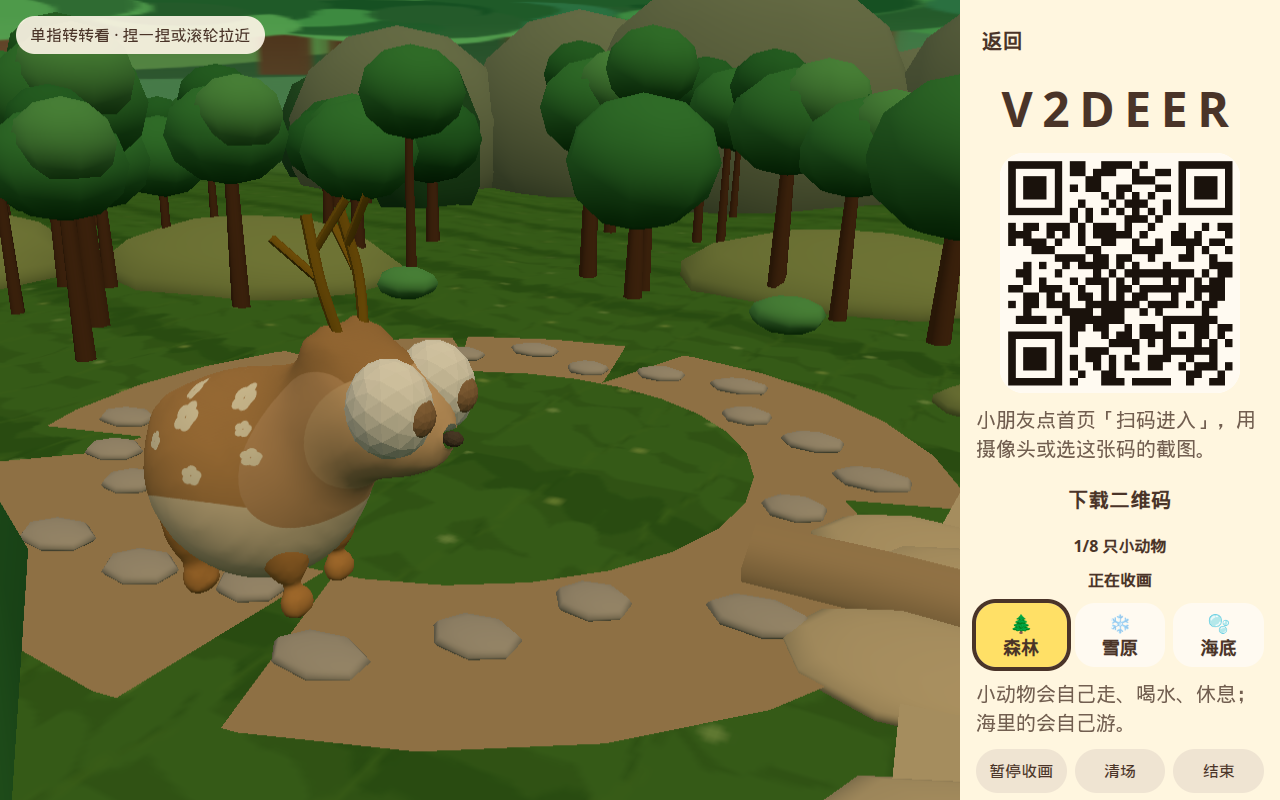
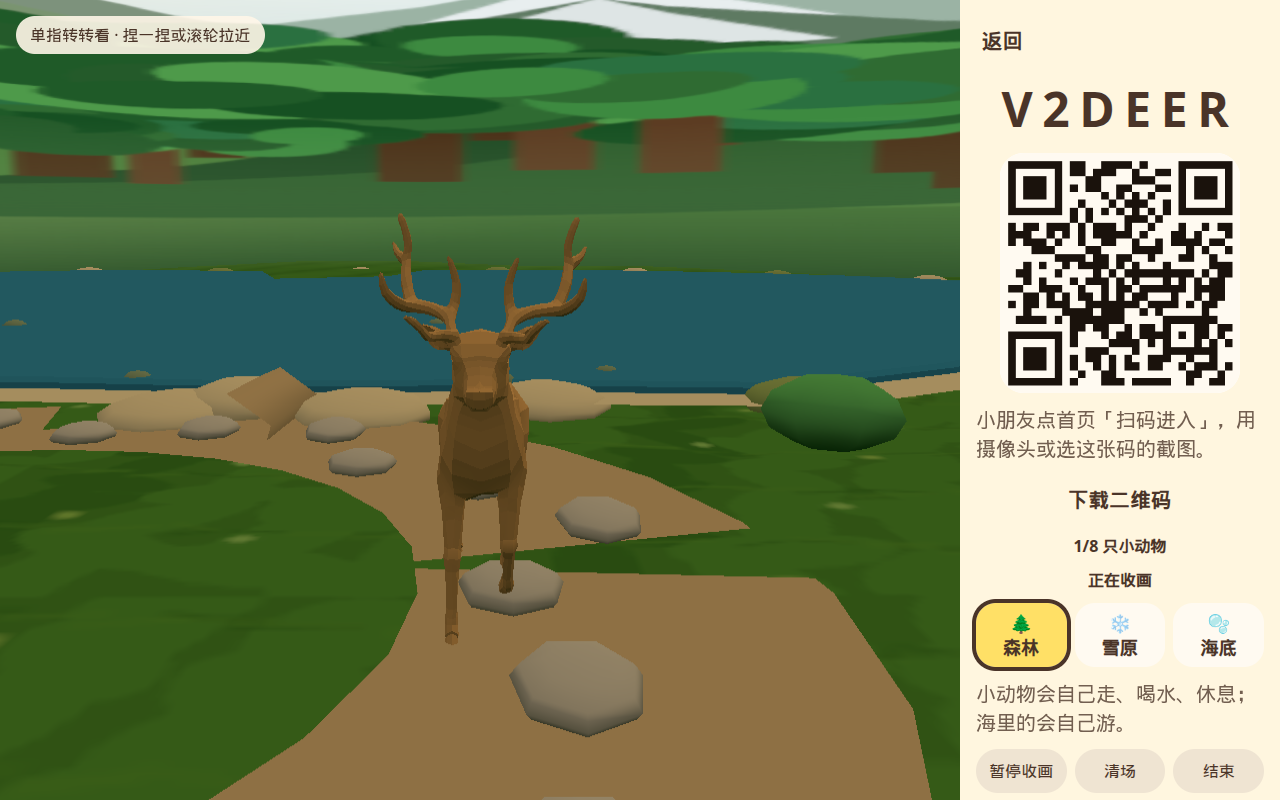
Frame downloaded lion, stag, and cat from the front.
Host and gallery cameras look at the face of the third-party glTF animals, not the rump.

diff --git a/web/src/world-exhibition/host-world.ts b/web/src/world-exhibition/host-world.ts
@@ -307,15 +307,22 @@ export class HostWorld {
     })
   }
 
-  /** Point the host camera at the first animal (preview screenshots / pinch-to-see). */
+  /** Point the host camera at the first animal's face (preview screenshots). */
   frameFirstAnimal(): boolean {
     const actor = this.actors.values().next().value as Actor | undefined
     if (!actor) return false
     const p = actor.group.position
-    this.orbit.target.set(p.x, 0.9, p.z)
-    this.orbit.radius = 4.4
-    this.orbit.phi = (50 * Math.PI) / 180
-    this.orbit.theta = Math.PI / 2
+    const a = actor.angle
+    const tx = -Math.sin(a)
+    const tz = Math.cos(a)
+    this.orbit.target.set(p.x, 0.95, p.z)
+    this.camera.position.set(p.x + tx * 4.3, 1.72, p.z + tz * 4.3)
+    const ox = this.camera.position.x - this.orbit.target.x
+    const oy = this.camera.position.y - this.orbit.target.y
+    const oz = this.camera.position.z - this.orbit.target.z
+    this.orbit.radius = Math.hypot(ox, oy, oz)
+    this.orbit.phi = Math.acos(Math.min(1, Math.max(-1, oy / Math.max(this.orbit.radius, 1e-6))))
+    this.orbit.theta = Math.atan2(ox, oz)
     this.orbit.apply()
     return true
   }

diff --git a/web/src/world-exhibition/preview.ts b/web/src/world-exhibition/preview.ts
@@ -24,9 +24,9 @@ export class PreviewStage {
     this.renderer.setClearColor('#e8f2d2', 1)
     this.renderer.setPixelRatio(1)
     this.camera = new THREE.PerspectiveCamera(36, 1, 0.1, 40)
-    this.camera.position.set(3.15, 1.48, 0.42)
-    this.camera.lookAt(0.15, 0.92, 0)
-    this.orbit = new OrbitZoom(canvas, this.camera, new THREE.Vector3(0.15, 0.92, 0), PREVIEW_ORBIT)
+    this.camera.position.set(-3.15, 1.55, 0.55)
+    this.camera.lookAt(0.1, 0.95, 0)
+    this.orbit = new OrbitZoom(canvas, this.camera, new THREE.Vector3(0.1, 0.95, 0), PREVIEW_ORBIT)
     this.scene.background = new THREE.Color('#e8f2d2')
     this.scene.add(new THREE.AmbientLight('#ffe9c8', 0.85))
     this.scene.add(new THREE.HemisphereLight('#fff6e8', '#7a9a58', 1.05))
